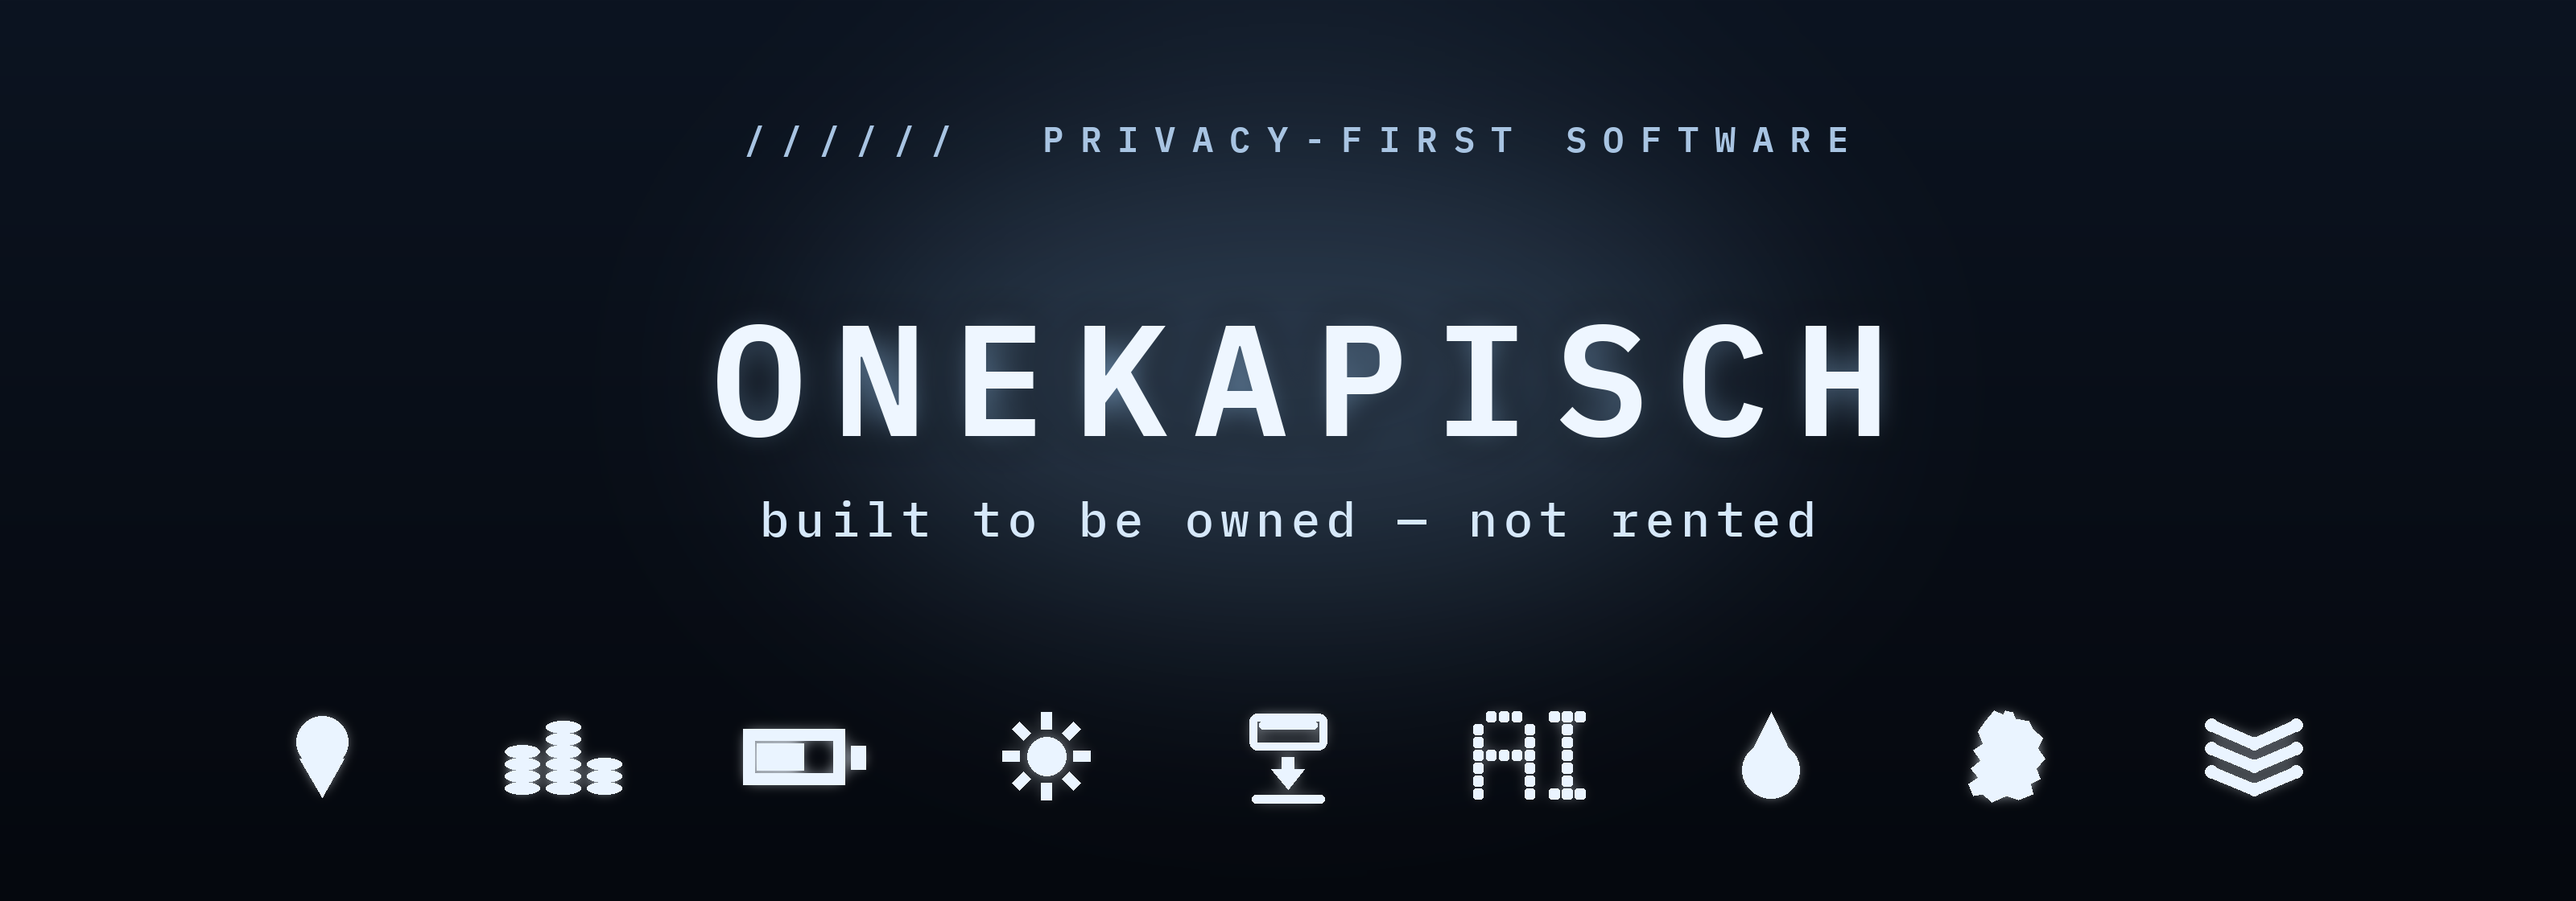
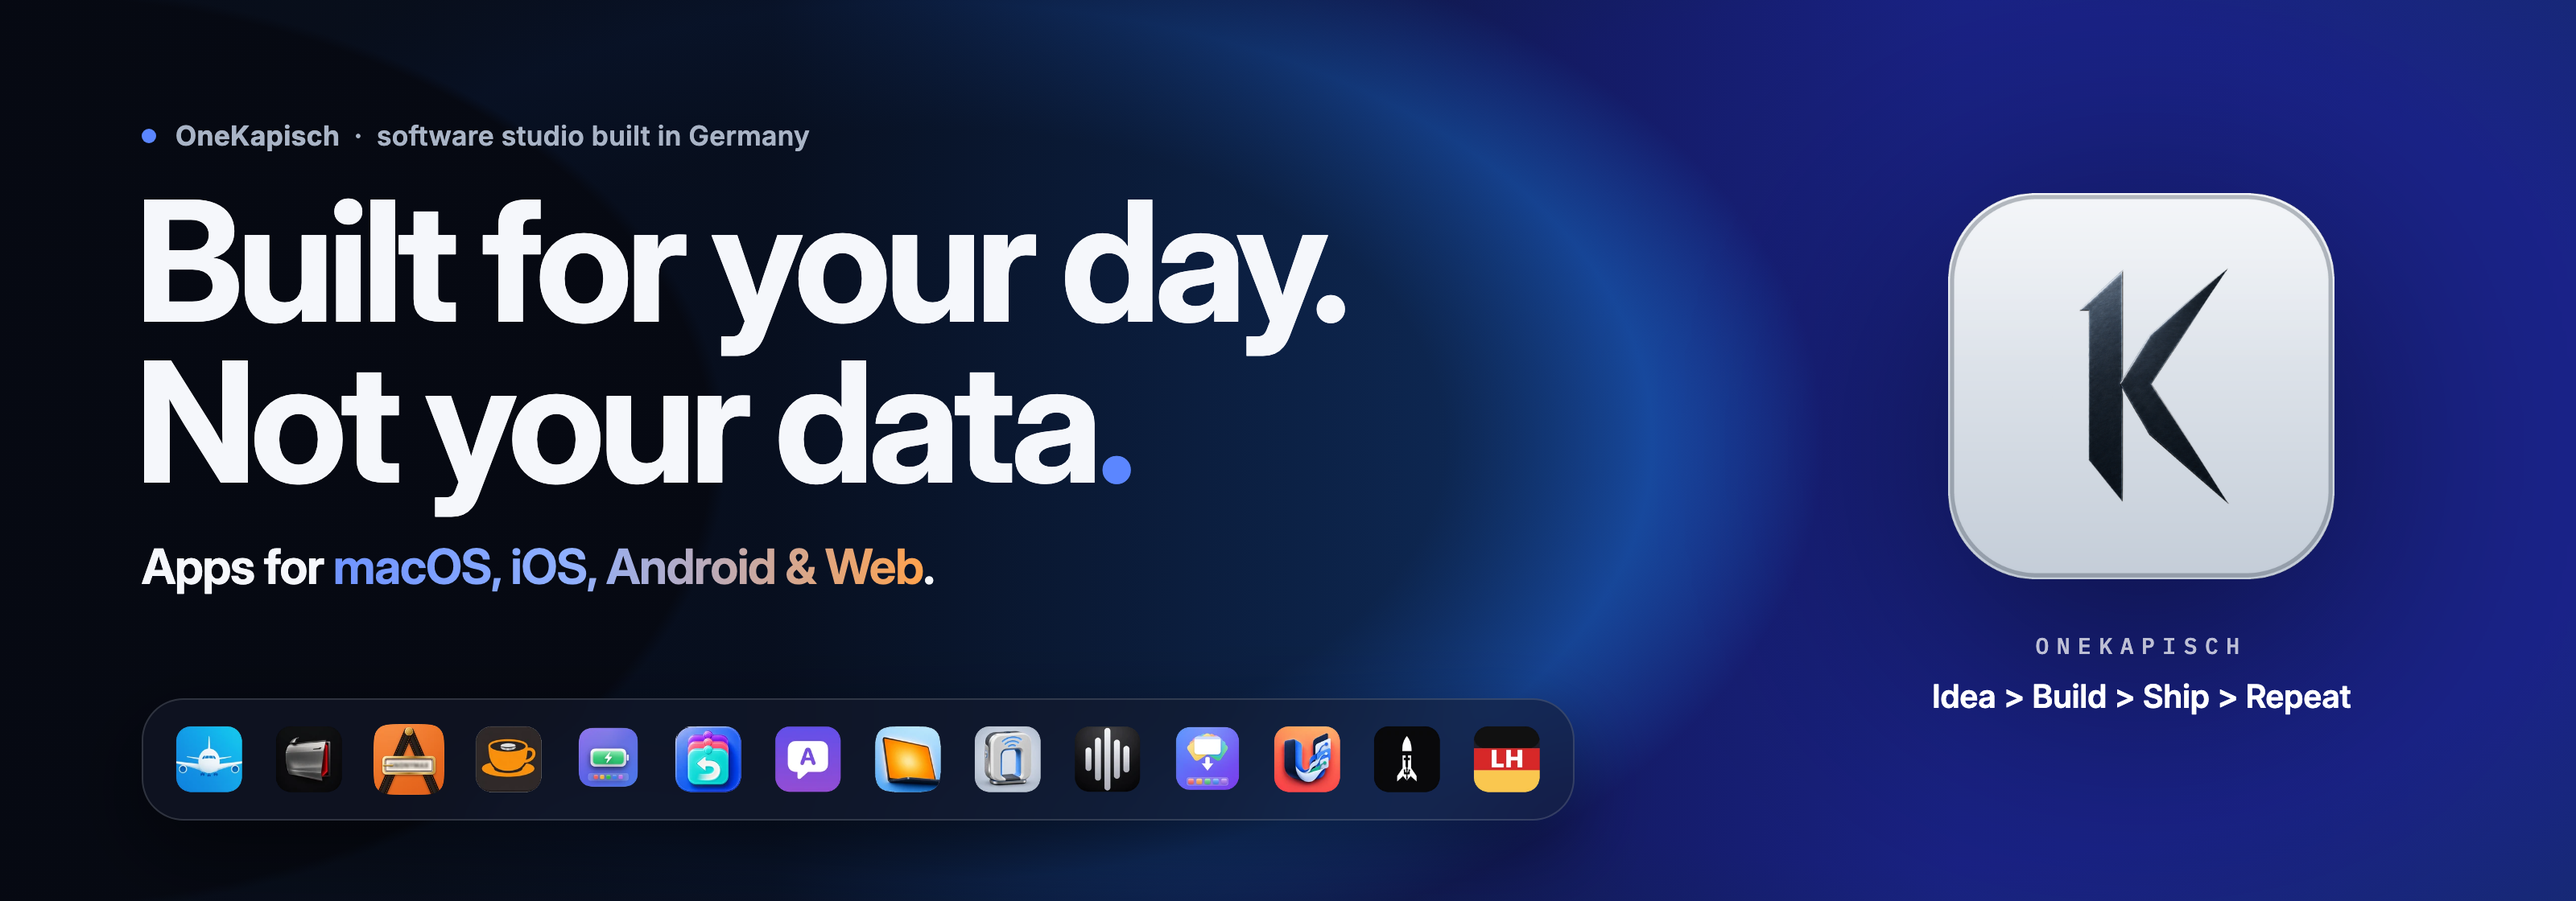
docs(profile): hero redrawn in the onekapisch.com hero style (light + dark), focus-app dock order

diff --git a/README.md b/README.md
@@ -1,8 +1,8 @@
 <div align="center">
 
 <picture>
-  <source media="(prefers-color-scheme: light)" srcset="docs/hero-light.png">
-  <img src="docs/hero.png" alt="onekapisch: privacy-first software, built to be owned, not rented" width="100%" />
+  <source media="(prefers-color-scheme: light)" srcset="docs/hero-light.png?v=20261119">
+  <img src="docs/hero.png?v=20261119" alt="OneKapisch, software studio built in Germany. Built for your day. Not your data. Apps for macOS, iOS, Android and Web: SkyLocation, Handlefree, AnonyMax, Tokens 4 Breakfast, Mac 4 Breakfast, Clip 4 Breakfast, Easy Write and more." width="100%" />
 </picture>
 
 <p><b>Privacy-first software, built to be owned, not rented.</b></p>
